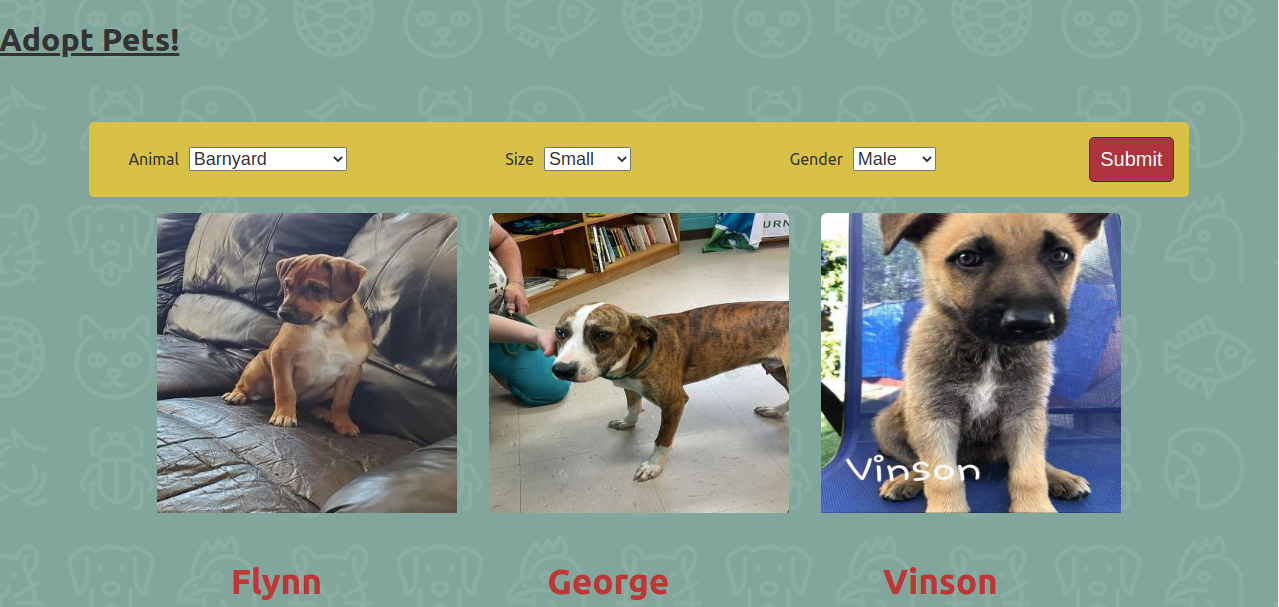
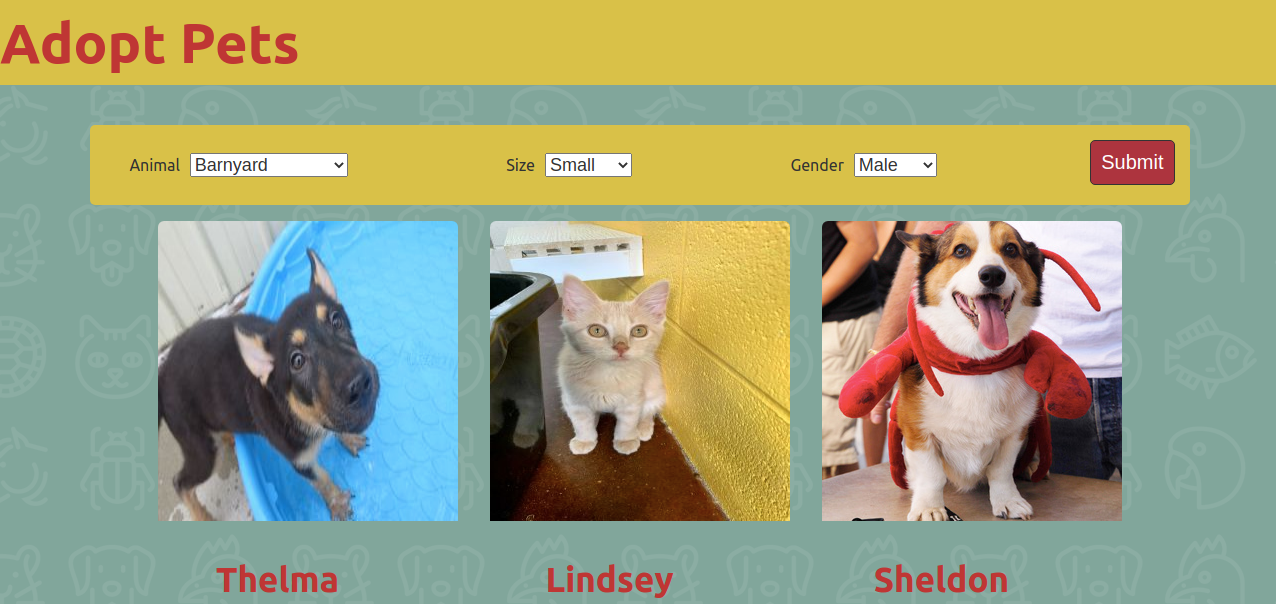
Add Changes to CSS and ReadME

diff --git a/src/styles/App.css b/src/styles/App.css
@@ -129,14 +129,16 @@ img {
 header > a,
 #root > div > h1 {
   display: inline-block;
+
   /* height: 76px; */
   overflow: hidden;
 }
 
 .header {
   background-color: var(--yellow);
+
   /* text-align: center; */
-  font-size: 72px;
+  font-size: 40px;
   color: #fff;
 }
 
@@ -150,6 +152,7 @@ header > a,
 
 header a {
   color: var(--red);
+
   /* font-size: 3px; */
   text-decoration: none;
   font-weight: bold;
@@ -163,7 +166,7 @@ header {
   justify-content: space-between;
   width: 100%;
   margin: 0 auto;
-  padding: 20px 0 0 0;
+  padding: 10px 0 0 0;
   margin-bottom: 40px;
 }
 
@@ -267,9 +270,14 @@ header {
     display: flex;
     align-content: center;
     justify-content: space-between;
-    width: 95%;
+    width: 100%;
     margin: 0 auto;
     padding: 20px 0 0 0;
+  }
+
+  .header {
+    font-size: 40px;
+    margin-bottom: 30px;
   }
 
   .search-params {
@@ -318,6 +326,11 @@ header {
 @media only screen and (max-width: 945px) {
   .search-params {
     width: 95%;
+  }
+
+  .header {
+    font-size: 30px;
+    margin-bottom: 30px;
   }
 
   .search-params-form {
